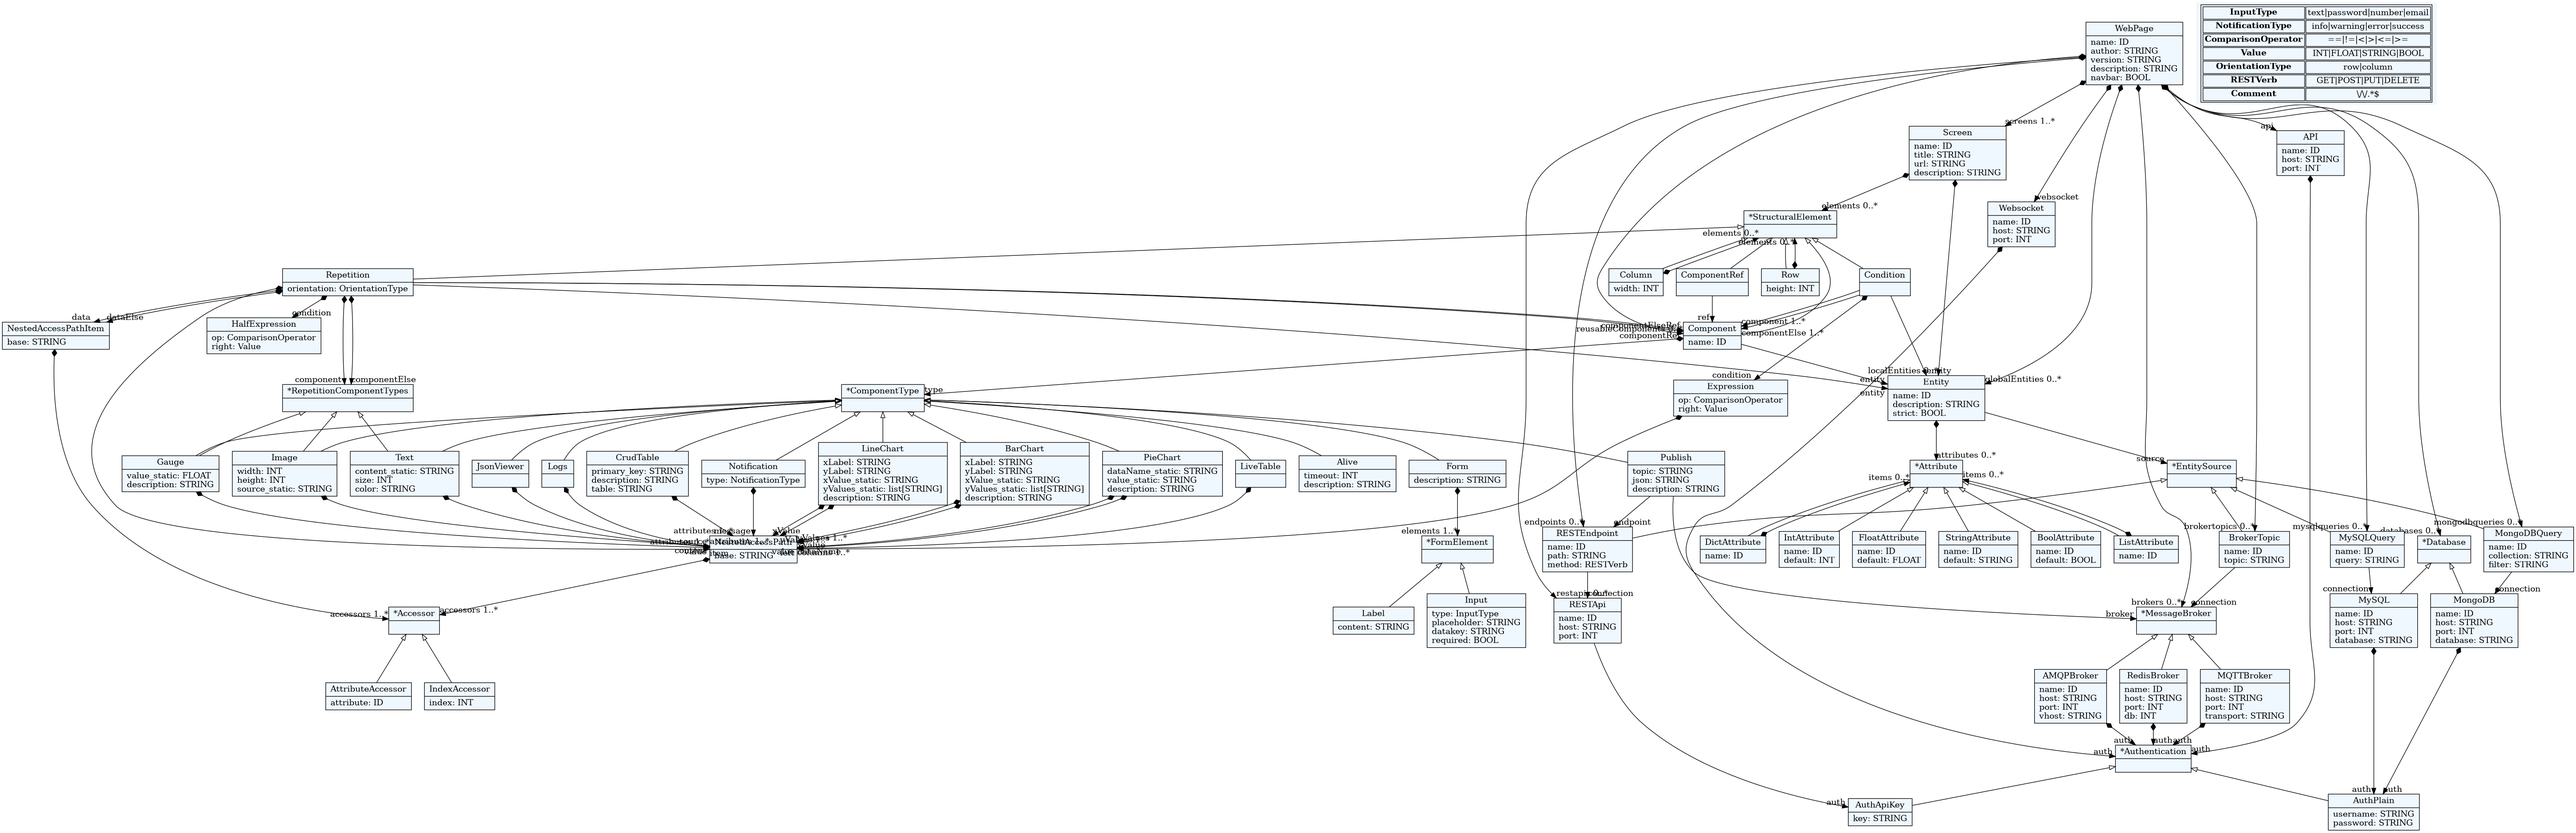
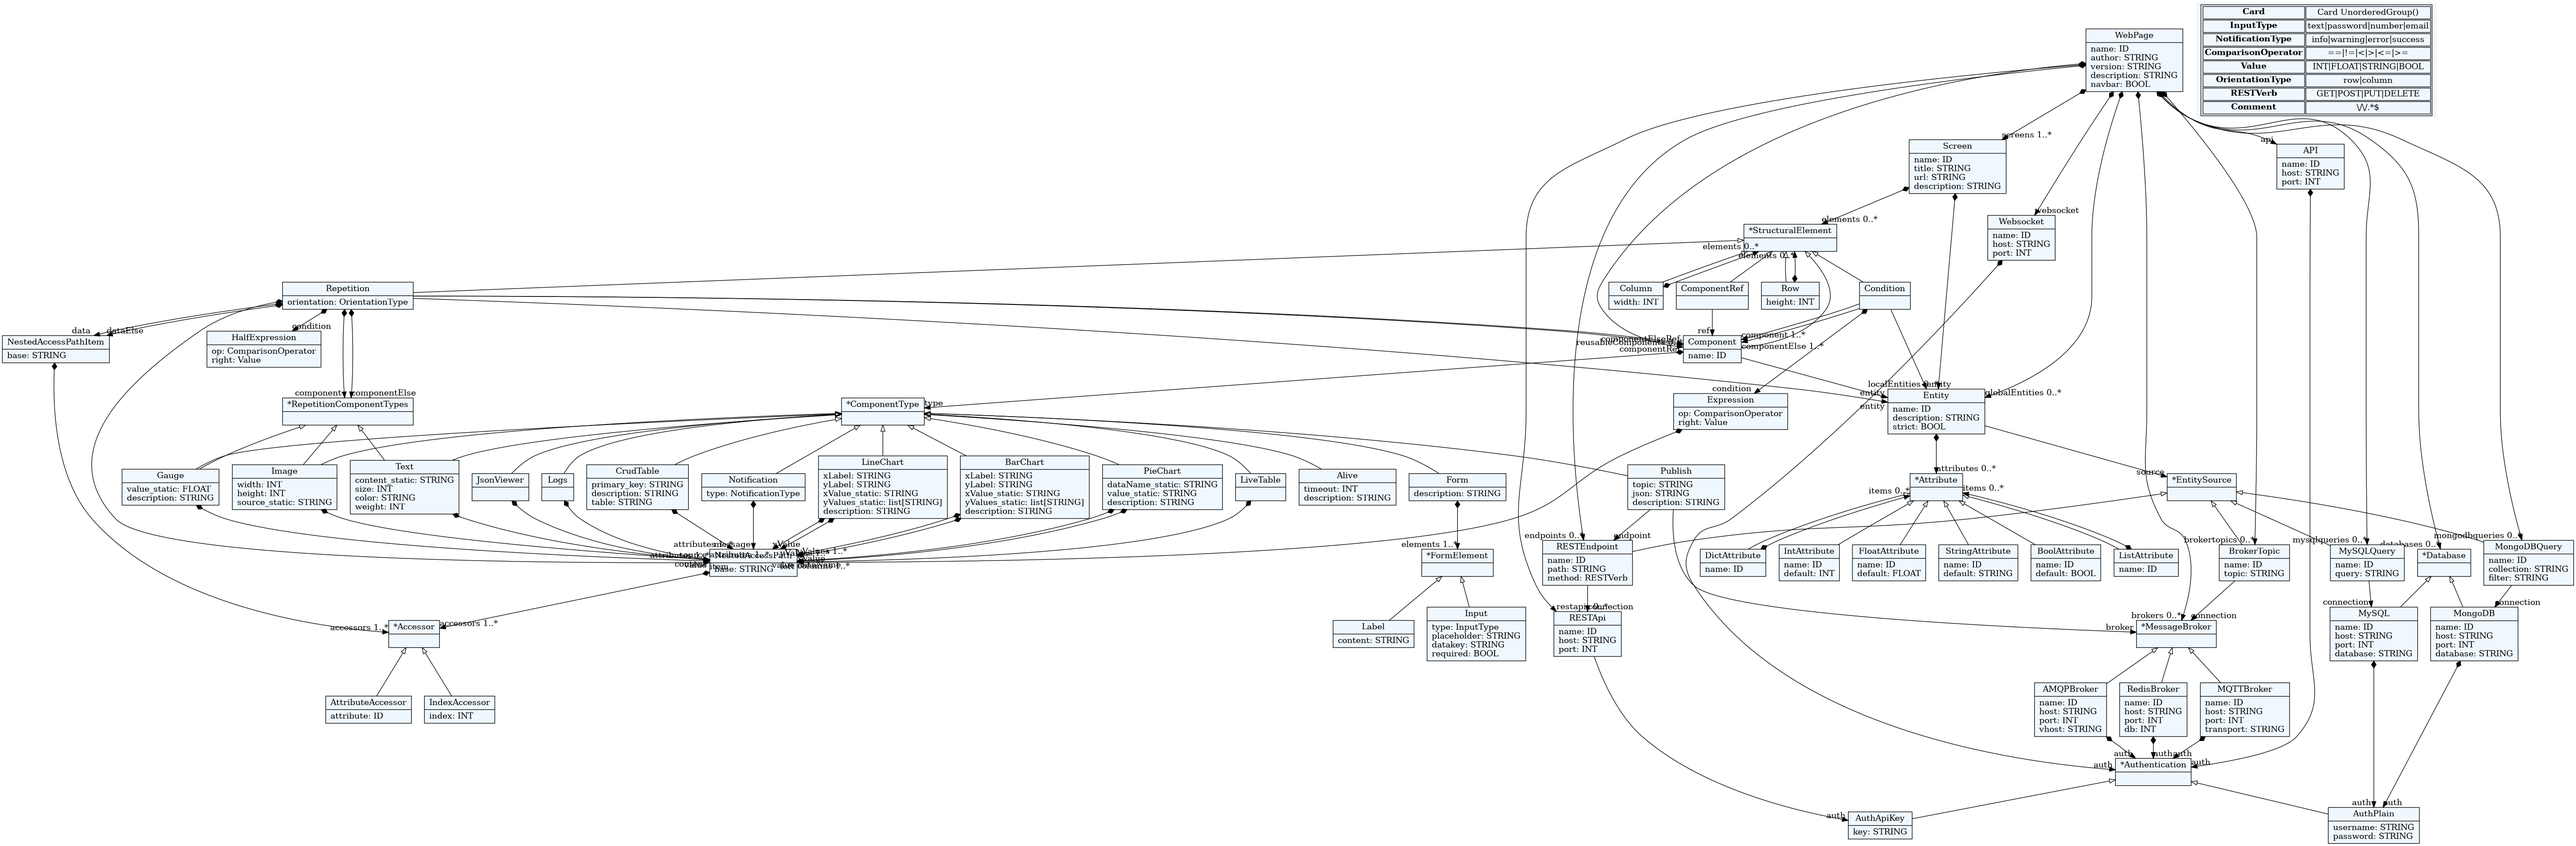
Added reload in repetition & font weight

diff --git a/web_dsl/base/frontend_base/src/components/Repetition.jsx b/web_dsl/base/frontend_base/src/components/Repetition.jsx
@@ -5,6 +5,8 @@ import { toast } from "react-toastify";
 import { fetchValueFromRest, fetchValueFromDB } from "../utils/fetchValues";
 import { getValueByPath } from "../utils/getValueByPath";
 import { evaluateConditionWithData } from "../utils/evaluateCondition";
+import { IoReload } from "react-icons/io5";
+
 const Repetition = ({
     topic,
     restData,
@@ -50,9 +52,18 @@ const Repetition = ({
     });
     return (
         <div
-            className="flex justify-evenly items-center w-full"
+            className="flex justify-evenly items-center w-full relative"
             style={{ flexDirection: orientation }}
         >
+            {(sourceOfContent === "rest" || sourceOfContent === "db") && (
+                <button
+                    className="absolute top-0 right-0 text-gray-100 hover:text-gray-500 hover:cursor-pointer box-content"
+                    onClick={reloadContent}
+                    title="Refresh Value"
+                >
+                    <IoReload size={24} />
+                </button>
+            )}
             {Array.isArray(allData) ? (
                 allData.map((item, idx) => (
                     <div

diff --git a/web_dsl/base/frontend_base/src/components/Text.jsx b/web_dsl/base/frontend_base/src/components/Text.jsx
@@ -11,6 +11,7 @@ const Text = ({
     contentPath,
     size = 18,
     color,
+    weight = 400,
     sourceOfContent,
     restData,
     staticContent,
@@ -70,7 +71,8 @@ const Text = ({
             <h1
                 style={{
                     ...(size !== 0 && { fontSize: `${size}px` }),
-                    color: color
+                    color: color,
+                    fontWeight: weight
                 }}
                 className="text-center"
             >

diff --git a/web_dsl/lib/component.py b/web_dsl/lib/component.py
@@ -237,6 +237,7 @@ class Text(ComponentType):
         content_static=None,
         size=None,
         color="#fff",
+        weight=400,
     ):
         super().__init__(parent, name)
         if content is not None:
@@ -245,6 +246,9 @@ class Text(ComponentType):
         self.size = size
         self.color = color
         self.isComponent = True
+
+        if weight is not None:
+            self.weight = weight
 
 
 class Logs(ComponentType):
